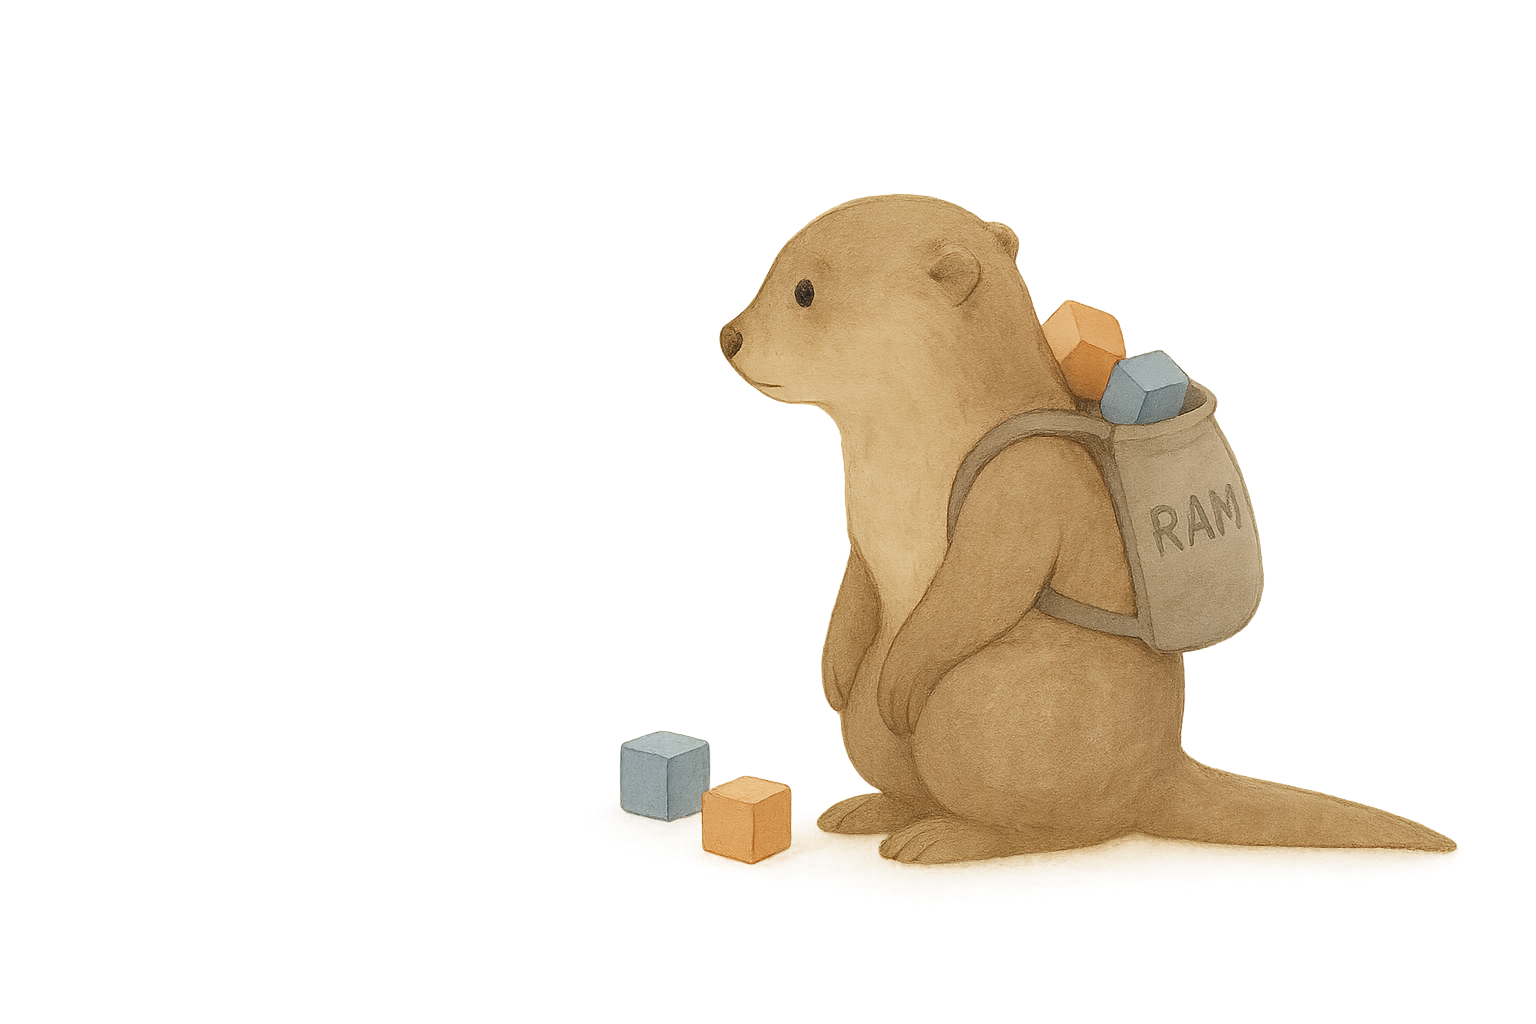
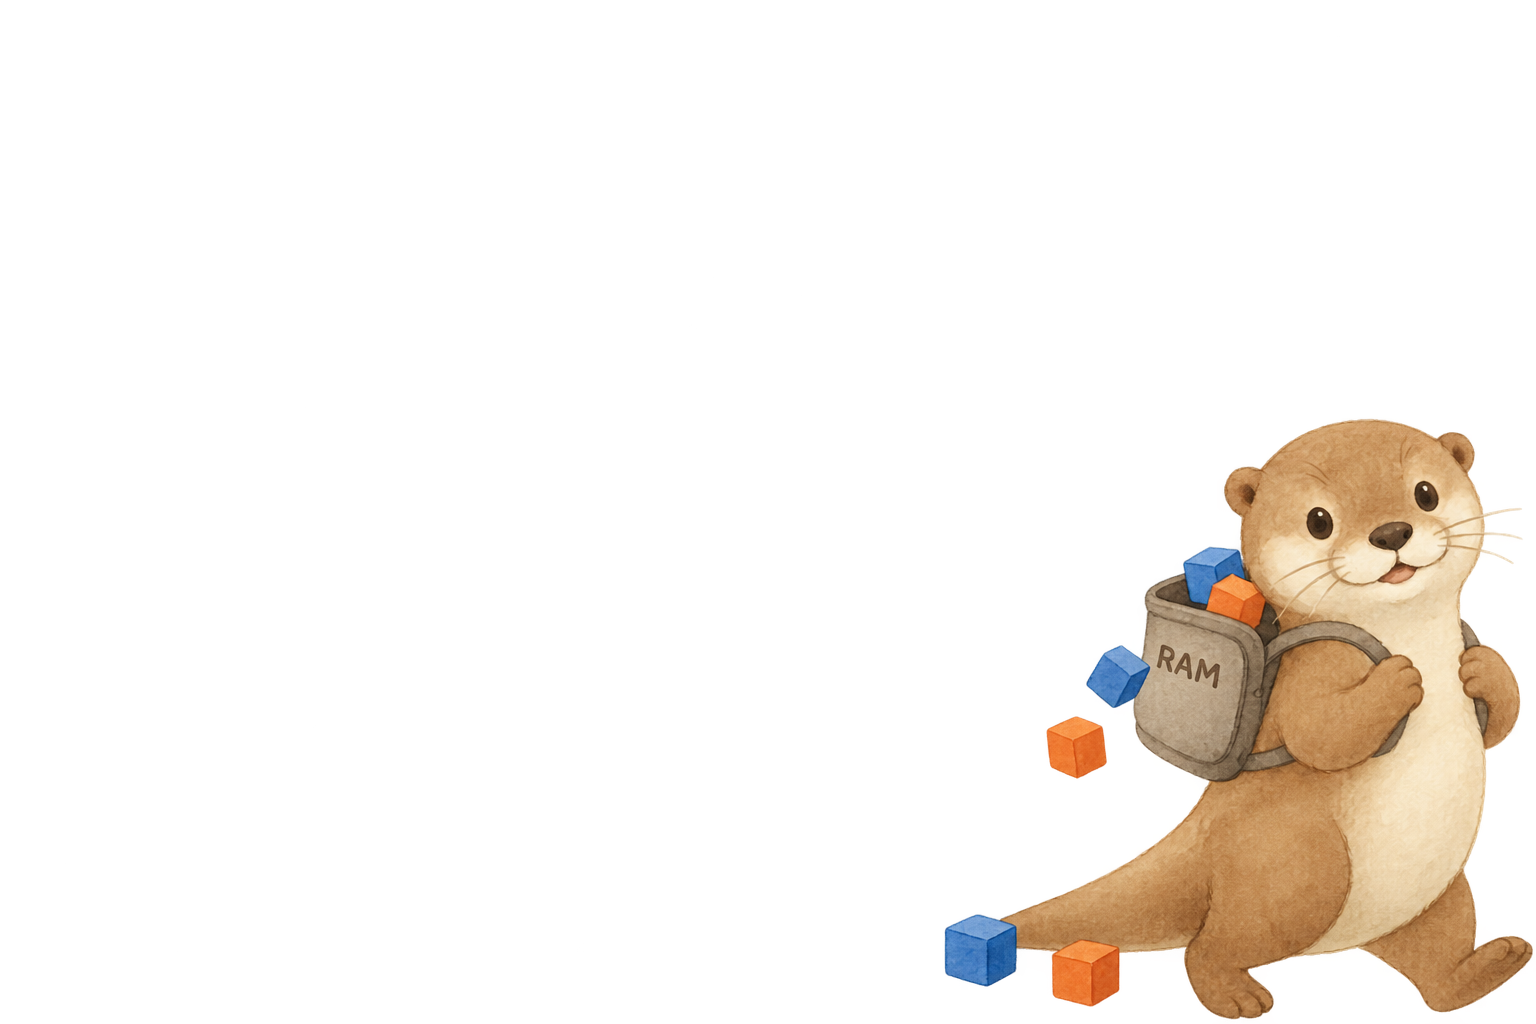
update images

Changed region(s): [[0.4062, 0.1875, 1.0, 1.0]]

diff --git a/scripts/generate_images.py b/scripts/generate_images.py
@@ -28,7 +28,7 @@ REPO_ROOT = Path(__file__).resolve().parents[1]
 IMAGES_DIR = REPO_ROOT / "website" / "slides" / "images"
 
 # Shown to the model so the otter and the style stay the same across lectures.
-STYLE_REFS = [IMAGES_DIR / "example.png", IMAGES_DIR / "example2.png"]
+STYLE_REFS = [IMAGES_DIR / "hello_background.png", IMAGES_DIR / "lec02_title_bg.png"]
 
 # The written form of "same style as this one, same character".
 STYLE_LOCK = (
